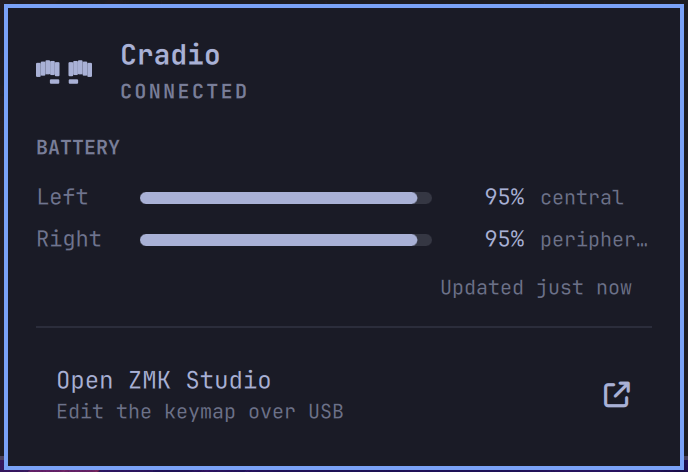
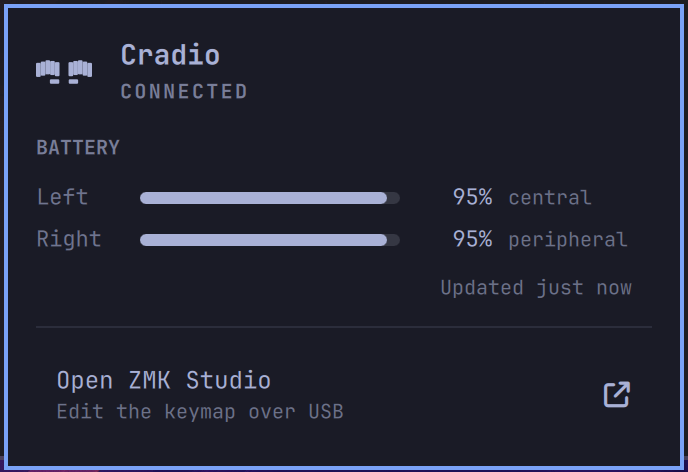
Fit the role column, add preview and a development note

Changed region(s): [[0.5494, 0.4746, 0.9462, 0.5339], [0.5494, 0.3856, 0.9157, 0.4449]]

diff --git a/Panel.qml b/Panel.qml
@@ -276,8 +276,8 @@ Panel {
         color: root.dim
         font.family: root.fontFamily
         font.pixelSize: Style.font.caption
-        // "peripheral" outgrows the stock 56, so the column takes what its longest word needs.
-        Layout.preferredWidth: Math.max(Style.space(56), implicitWidth)
+        // Wide enough for "peripheral"; the meter is the flexible column, not this one.
+        Layout.preferredWidth: Style.space(72)
       }
     }
   }

diff --git a/README.md b/README.md
@@ -84,3 +84,10 @@ its own from a terminal.
 | `SplitKeyboardIcon.qml` | The split-keyboard glyph, drawn on a canvas |
 | `Model.js` | JSON parsing and formatting helpers |
 | `zmk-battery` | Reads the battery levels over GATT |
+
+## Developing
+
+Edit the files in place under `~/.config/omarchy/plugins/io.github.scrambletools.zmk-battery/`.
+Settings and the script are picked up live, but the shell does not always
+re-instantiate an already-loaded bar widget after a QML edit; when a change
+to `Panel.qml` or `Service.qml` does not show, run `omarchy restart shell`.
